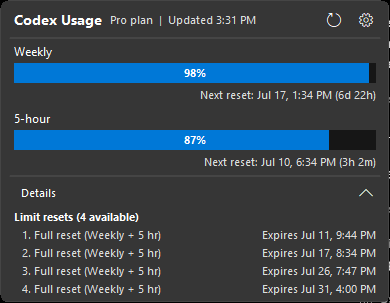
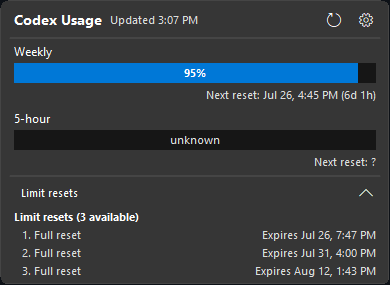
docs: refresh expanded popup preview

diff --git a/README.md b/README.md
@@ -2,7 +2,7 @@
 
 Codex Usage Tray is a Windows tray utility for monitoring the usage limits of the account signed in to the Codex CLI. The tray icon shows the selected remaining-usage percentage, and a left-click opens a compact popup with the current plan, weekly and 5-hour remaining usage, last update time, and reset timing when available.
 
-![Codex Usage tray popup](docs/images/tray-usage-popup.png)
+![Codex Usage tray popup with expanded details](docs/images/tray-usage-details.png)
 
 ## Requirements
 
@@ -24,13 +24,11 @@ Each refresh starts a short-lived local `codex app-server --stdio` process and r
 
 The popup opens in its compact state and shows the primary weekly and 5-hour limits. A status line appears while refreshing, when automatic checks are paused, or when the latest refresh failed.
 
-When the account response includes reset credits, a `Details` control appears. Expand it to see:
+When the account response includes reset credits, a `Limit resets` control appears. Expand it to see:
 
 - Available reset credits, including their titles and local expiration date/time when supplied by Codex.
 
-![Expanded Codex Usage details](docs/images/tray-usage-details.png)
-
-The related Settings options can hide reset availability, reset times, or last-updated times. Details are collapsed again the next time the popup opens.
+The related Settings options can hide reset availability, reset times, or last-updated times. Limit resets are collapsed again the next time the popup opens.
 
 ## Refresh and settings
 
